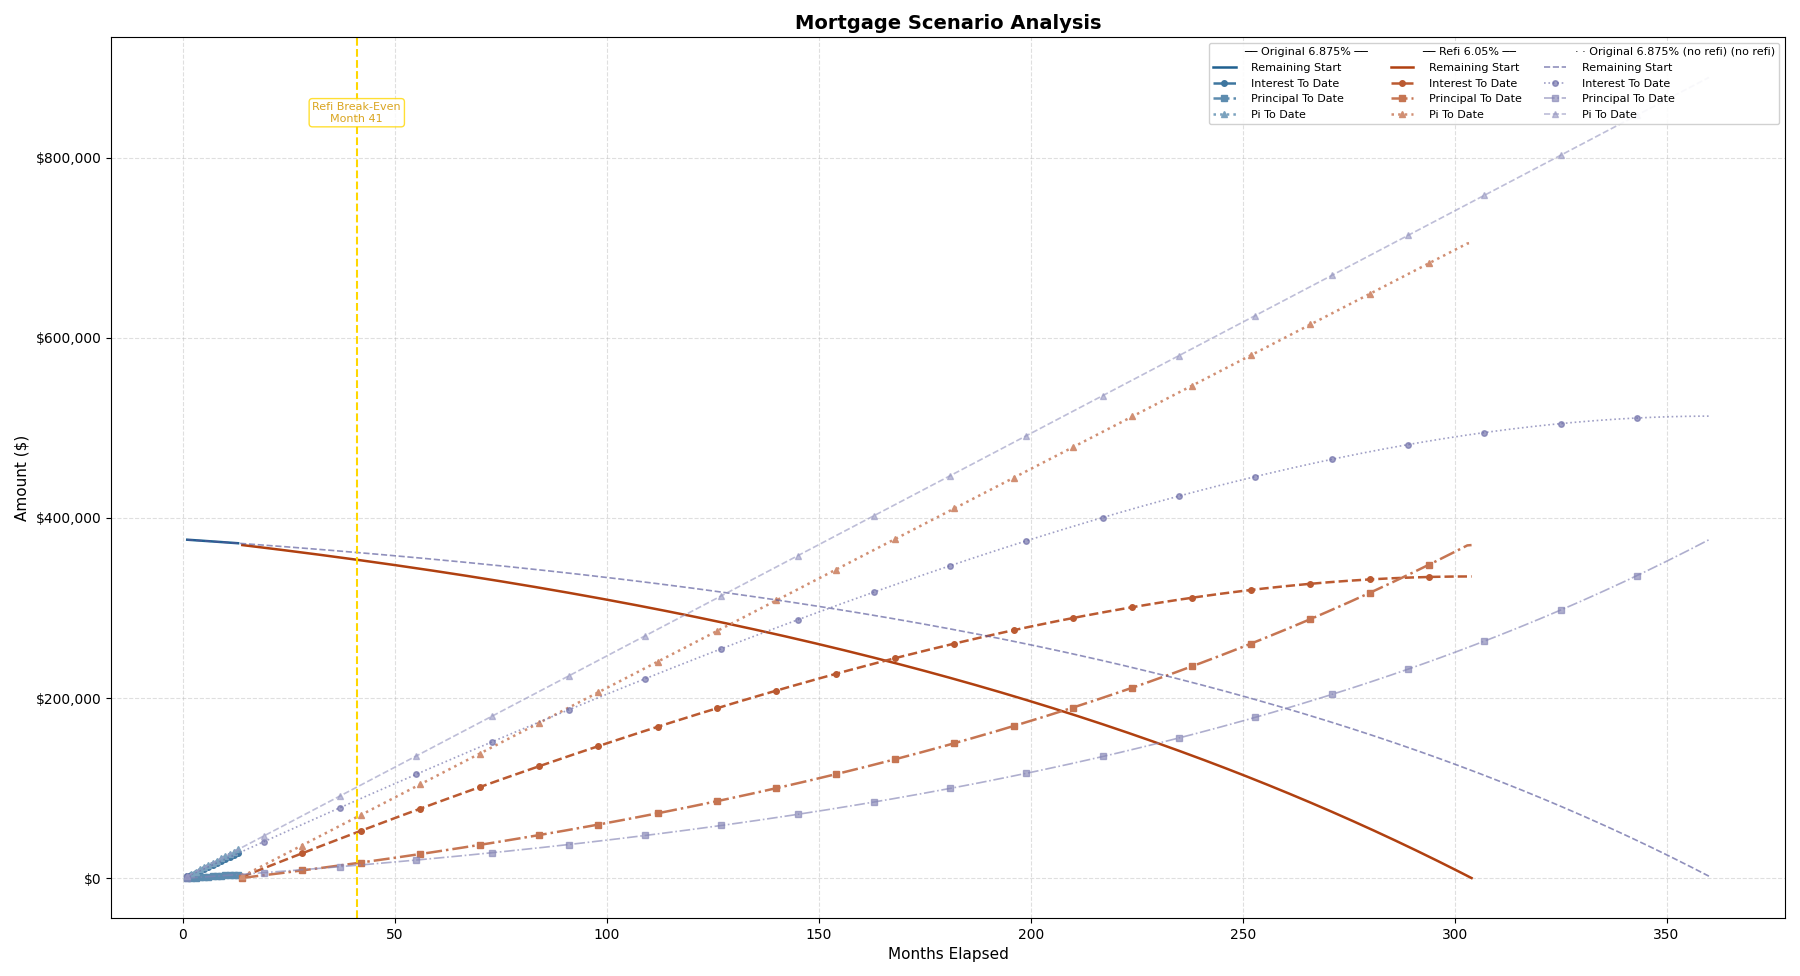
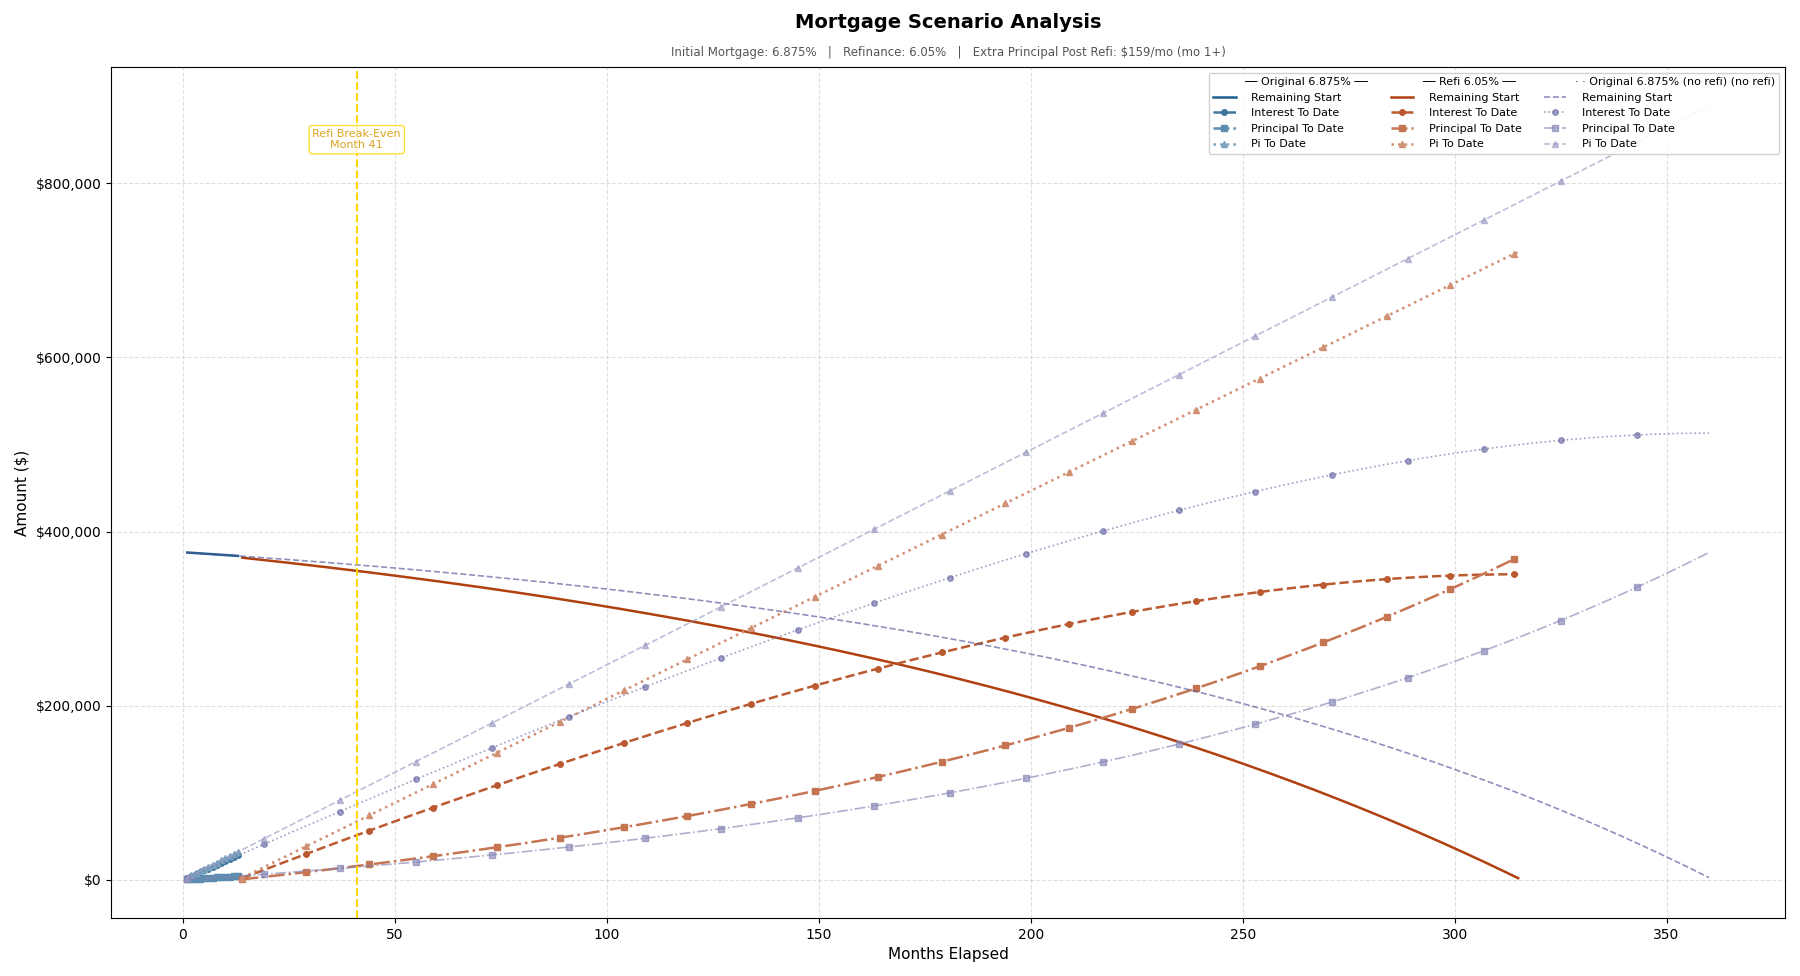
Add files via upload
Bugs bunny just knew.

diff --git a/mortgage_tool.py b/mortgage_tool.py
@@ -830,7 +830,7 @@ def plot_scenarios(
                 rng = (f"mo {ep.start_month}–{ep.end_month}"
                        if ep.end_month else f"mo {ep.start_month}+")
                 ep_strs.append(f"{amt} ({rng})")
-            subtitle_parts.append(f"Extra Principal: {', '.join(ep_strs)}")
+            subtitle_parts.append(f"Extra Principal Post Refi: {', '.join(ep_strs)}")
 
     subtitle = "   |   ".join(subtitle_parts)
     if subtitle:
